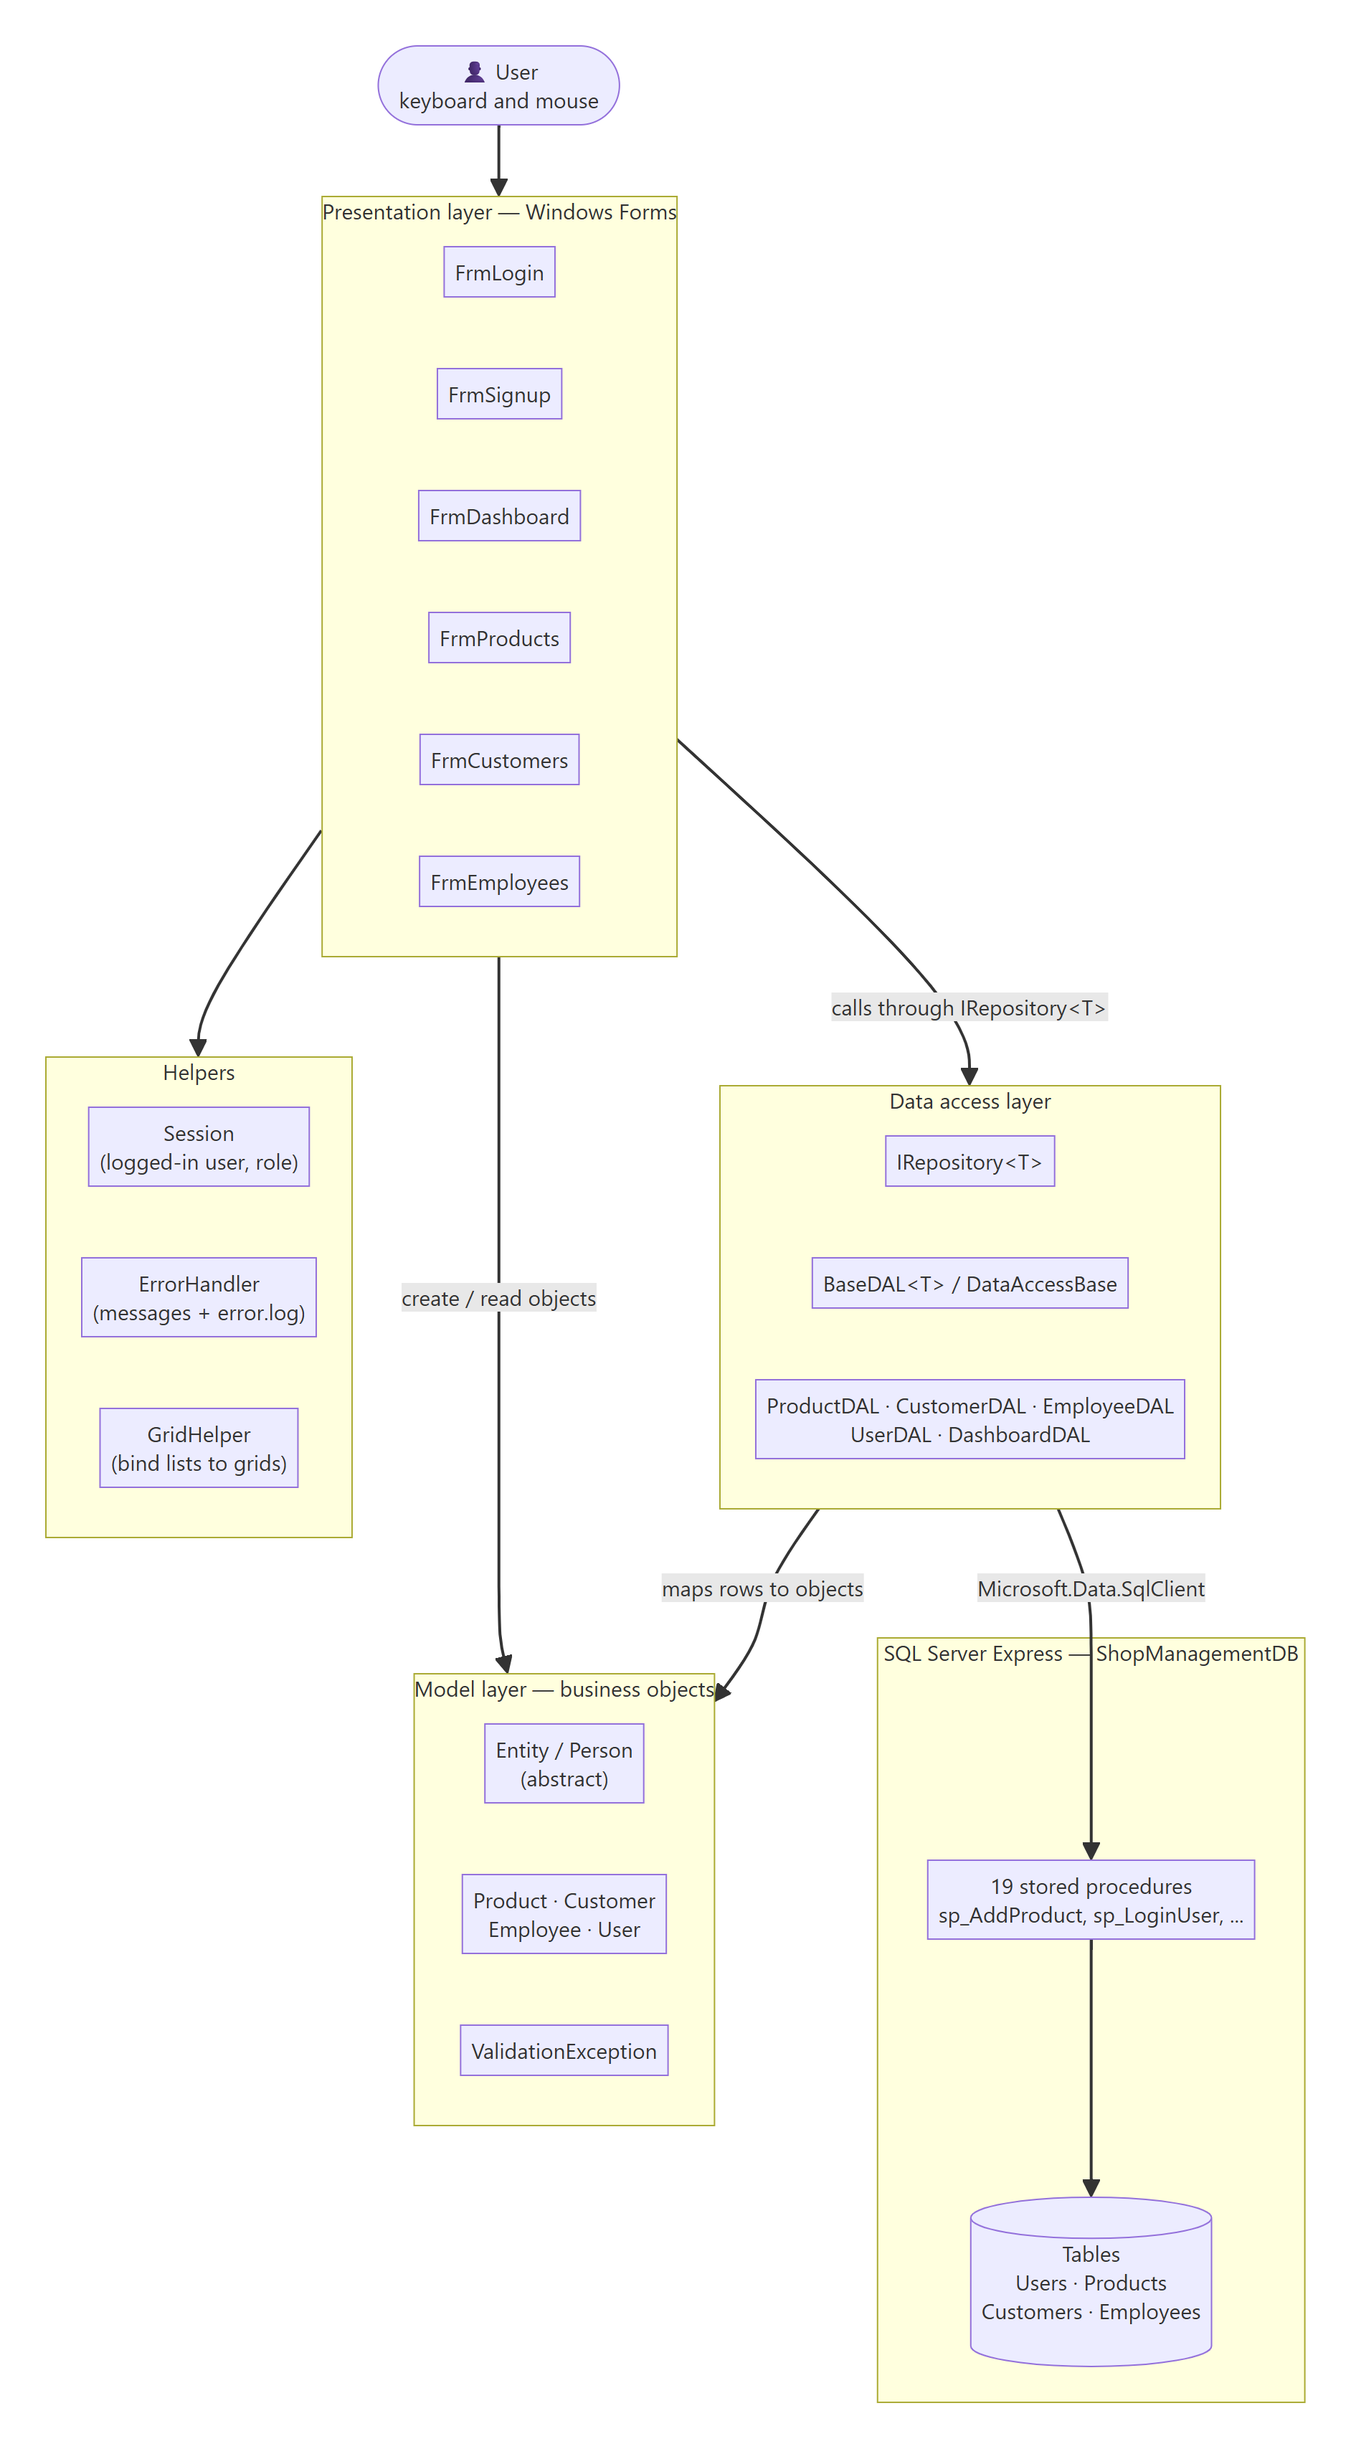
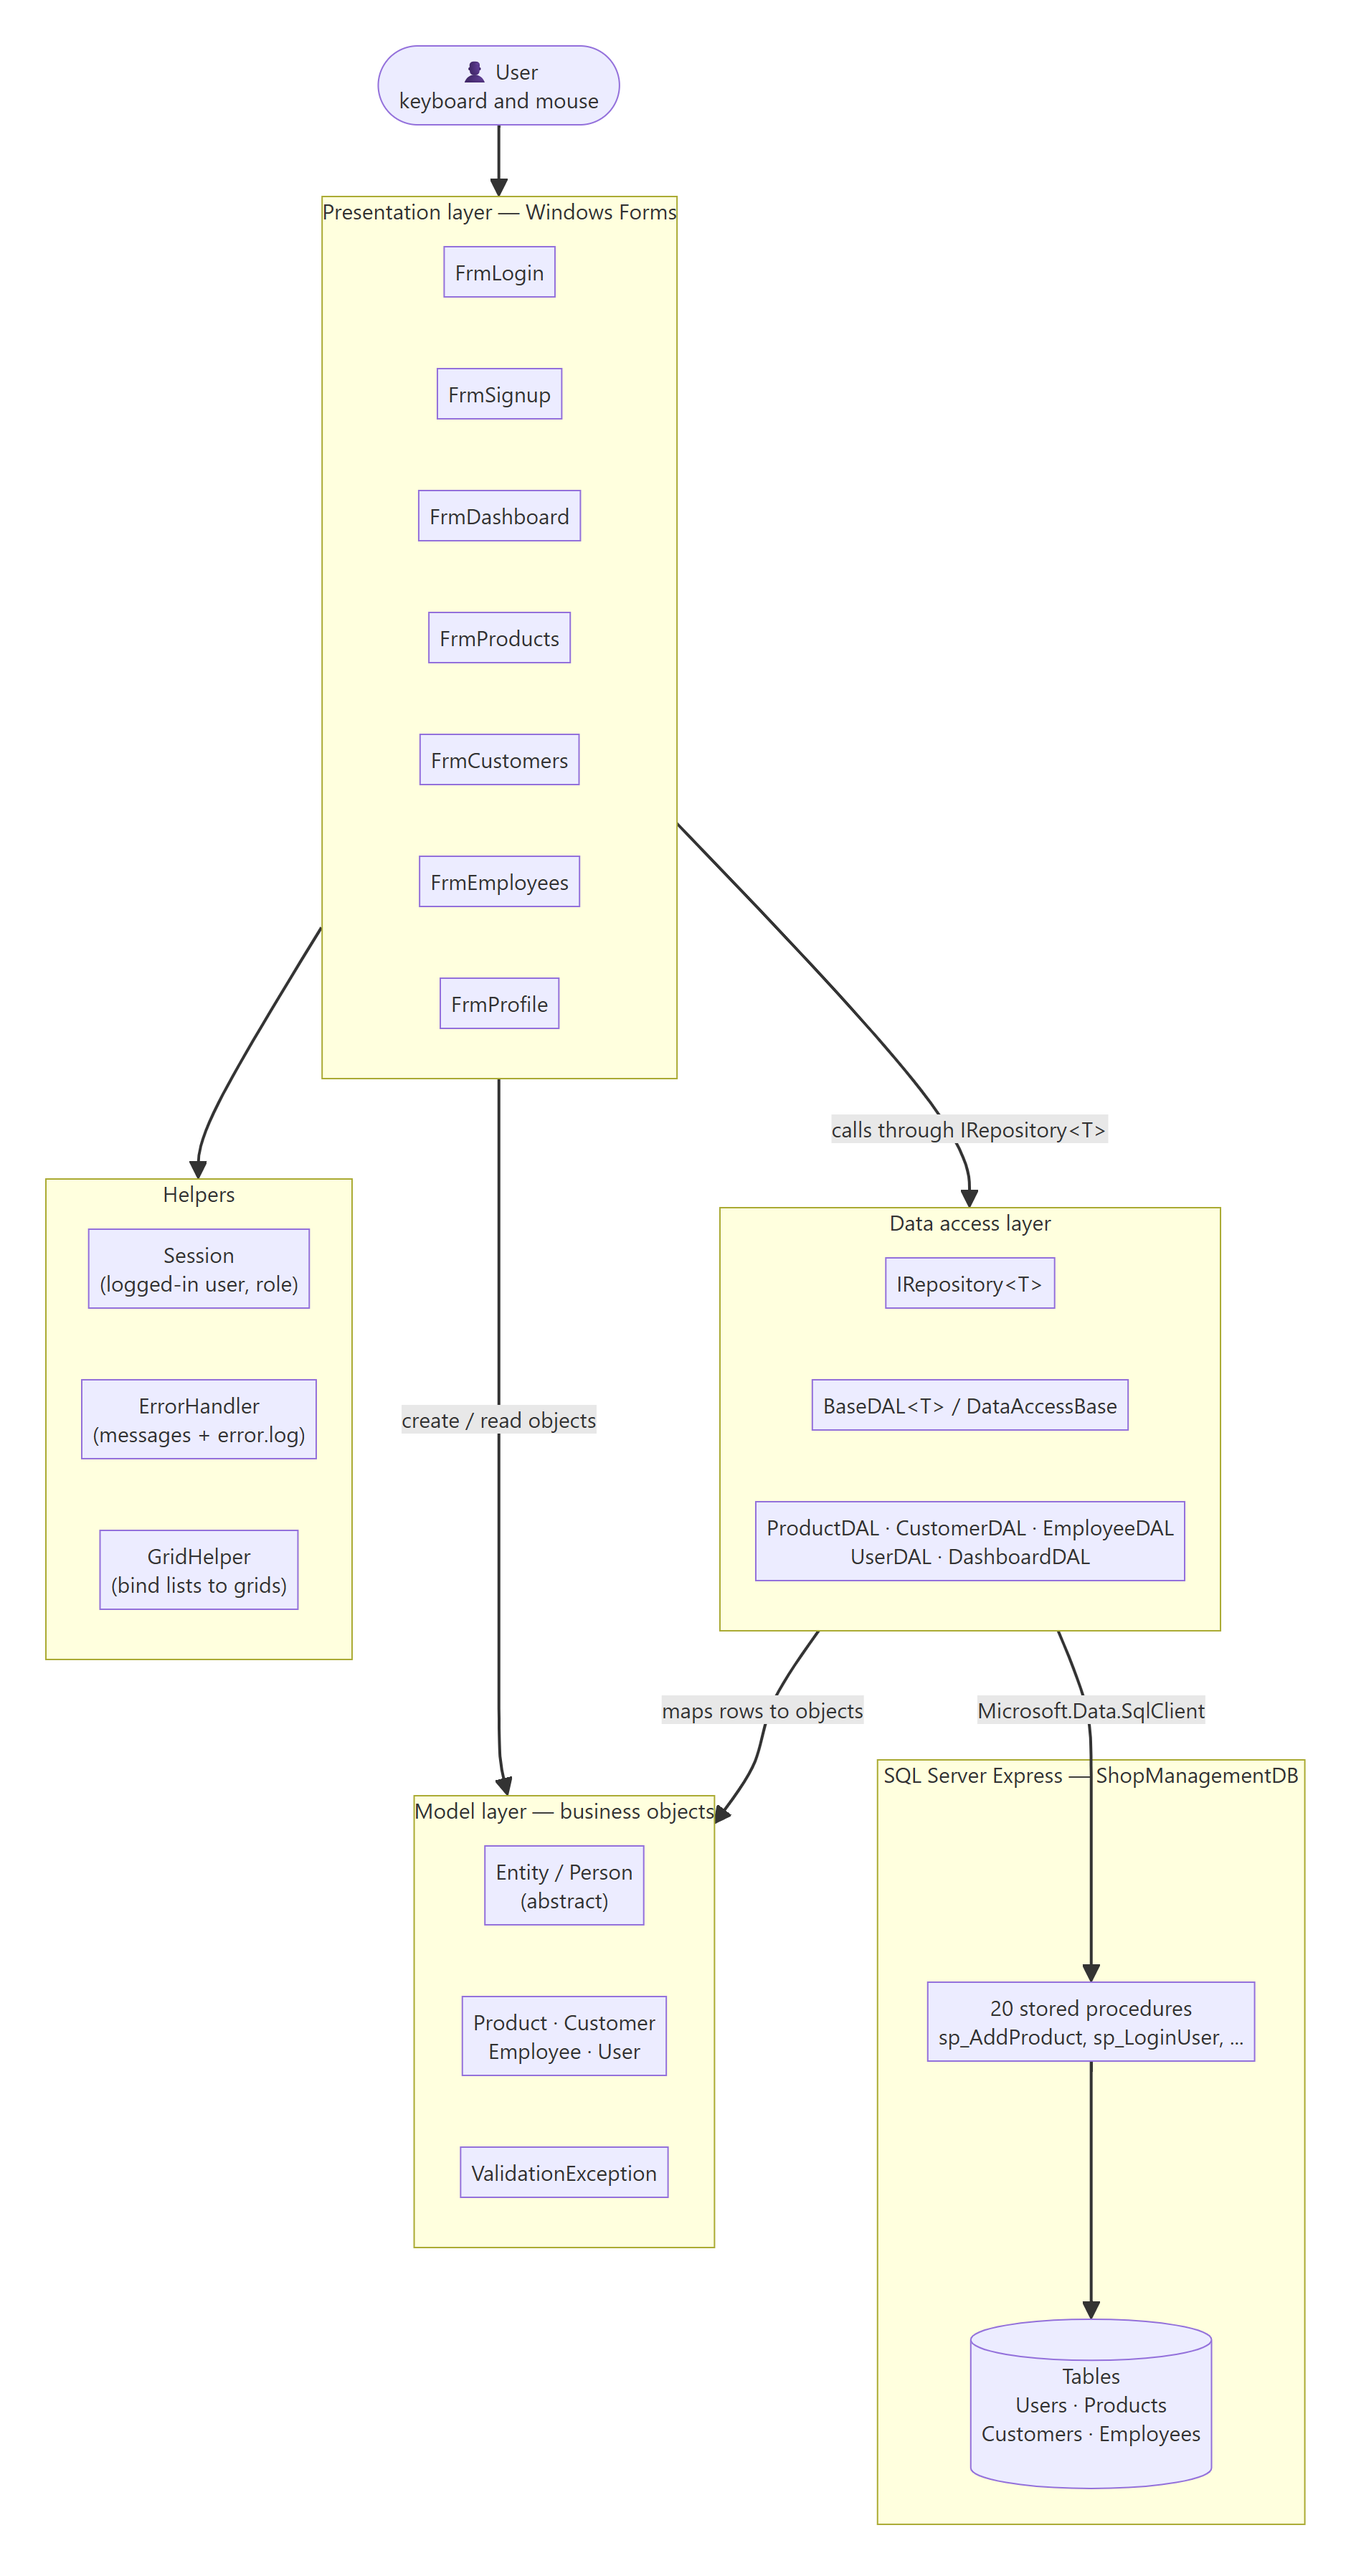
Add clickable profile on the dashboard
- Welcome text is now a link (hand cursor, underline on hover, tooltip)
  that opens a 'My Profile' window
- Profile details are loaded from the database via new stored procedure
  sp_GetUserProfile (UserDAL.GetProfile); User gains CreatedAt
- FrmProfile is built in code: initials avatar, username, role,
  member-since date and employee-access rights
- Database errors while loading the profile are handled like other screens
- Update diagrams (20 stored procedures, FrmProfile, new members) and add
  a profile screenshot

diff --git a/ShopManagementSystem/Forms/FrmProfile.cs b/ShopManagementSystem/Forms/FrmProfile.cs
@@ -1,0 +1,147 @@
+using ShopManagementSystem.Helpers;
+using ShopManagementSystem.Models;
+using System;
+using System.Drawing;
+using System.Drawing.Drawing2D;
+using System.Windows.Forms;
+
+namespace warehouse.NewFolder.Forms
+{
+    // Read-only profile card for the logged-in user. Built in code (no designer file).
+    public class FrmProfile : Form
+    {
+        private static readonly Color HeaderColor = Color.FromArgb(30, 64, 175);
+        private readonly User user;
+
+        public FrmProfile(User user)
+        {
+            this.user = user;
+
+            Text = "My Profile";
+            FormBorderStyle = FormBorderStyle.FixedDialog;
+            MaximizeBox = false;
+            MinimizeBox = false;
+            ShowInTaskbar = false;
+            StartPosition = FormStartPosition.CenterParent;
+            ClientSize = new Size(380, 340);
+            BackColor = Color.White;
+            Font = new Font("Segoe UI", 10F);
+
+            // The Fill control must be added first so the header and footer dock around it.
+            Controls.Add(BuildDetails());
+            Controls.Add(BuildHeader());
+            Controls.Add(BuildFooter());
+
+            UiTheme.Apply(this);
+        }
+
+        private Panel BuildHeader()
+        {
+            Panel header = new Panel { Dock = DockStyle.Top, Height = 120, BackColor = HeaderColor };
+
+            Panel avatar = new Panel { Size = new Size(64, 64), Location = new Point(24, 28), BackColor = HeaderColor };
+            avatar.Paint += PaintAvatar;
+
+            Label name = new Label
+            {
+                Text = user.Name,
+                ForeColor = Color.White,
+                Font = new Font("Segoe UI", 14F, FontStyle.Bold),
+                AutoSize = true,
+                Location = new Point(104, 36)
+            };
+            Label role = new Label
+            {
+                Text = user.Role,
+                ForeColor = Color.FromArgb(191, 219, 254),
+                Font = new Font("Segoe UI", 10F),
+                AutoSize = true,
+                Location = new Point(106, 68)
+            };
+
+            header.Controls.Add(avatar);
+            header.Controls.Add(name);
+            header.Controls.Add(role);
+            return header;
+        }
+
+        // White circle with the user's initials.
+        private void PaintAvatar(object? sender, PaintEventArgs e)
+        {
+            e.Graphics.SmoothingMode = SmoothingMode.AntiAlias;
+            e.Graphics.TextRenderingHint = System.Drawing.Text.TextRenderingHint.AntiAlias;
+            Rectangle circle = new Rectangle(0, 0, 63, 63);
+            e.Graphics.FillEllipse(Brushes.White, circle);
+
+            using Font font = new Font("Segoe UI", 20F, FontStyle.Bold);
+            using Brush brush = new SolidBrush(HeaderColor);
+            using StringFormat centre = new StringFormat { Alignment = StringAlignment.Center, LineAlignment = StringAlignment.Center };
+            e.Graphics.DrawString(GetInitials(user.Name), font, brush, circle, centre);
+        }
+
+        private static string GetInitials(string name)
+        {
+            string[] parts = name.Split(' ', StringSplitOptions.RemoveEmptyEntries);
+            if (parts.Length == 0)
+                return "?";
+            if (parts.Length == 1)
+                return parts[0].Substring(0, 1).ToUpperInvariant();
+            return (parts[0].Substring(0, 1) + parts[^1].Substring(0, 1)).ToUpperInvariant();
+        }
+
+        private TableLayoutPanel BuildDetails()
+        {
+            TableLayoutPanel table = new TableLayoutPanel
+            {
+                Dock = DockStyle.Fill,
+                ColumnCount = 2,
+                Padding = new Padding(24, 16, 24, 0)
+            };
+            table.ColumnStyles.Add(new ColumnStyle(SizeType.Absolute, 150));
+            table.ColumnStyles.Add(new ColumnStyle(SizeType.Percent, 100));
+
+            AddRow(table, "Username", user.Username);
+            AddRow(table, "Role", user.Role);
+            AddRow(table, "Member since", user.CreatedAt?.ToString("d MMMM yyyy") ?? "Unknown");
+            AddRow(table, "Employee access", Session.CanManageEmployees ? "Yes" : "No (Admin or Manager only)");
+            return table;
+        }
+
+        private static void AddRow(TableLayoutPanel table, string caption, string value)
+        {
+            table.Controls.Add(new Label
+            {
+                Text = caption,
+                ForeColor = Color.DimGray,
+                AutoSize = true,
+                Margin = new Padding(0, 6, 0, 6)
+            });
+            table.Controls.Add(new Label
+            {
+                Text = value,
+                Font = new Font("Segoe UI", 10F, FontStyle.Bold),
+                AutoSize = true,
+                Margin = new Padding(0, 6, 0, 6)
+            });
+        }
+
+        private Panel BuildFooter()
+        {
+            // Width must be set before the right-anchored button is positioned inside it.
+            Panel footer = new Panel { Dock = DockStyle.Bottom, Height = 64, Width = ClientSize.Width };
+            Button close = new Button
+            {
+                Text = "CLOSE",
+                Size = new Size(110, 36),
+                Location = new Point(ClientSize.Width - 110 - 24, 12),
+                Anchor = AnchorStyles.Top | AnchorStyles.Right,
+                Font = new Font("Segoe UI", 10F, FontStyle.Bold)
+            };
+            close.Click += (sender, e) => Close();
+            CancelButton = close;
+            AcceptButton = close;
+            footer.Controls.Add(close);
+            return footer;
+        }
+    }
+}

diff --git a/ShopManagementSystem/Forms/FrmDashboard.cs b/ShopManagementSystem/Forms/FrmDashboard.cs
@@ -16,18 +16,70 @@ namespace warehouse.NewFolder.Forms
     {
         private readonly DashboardDAL dashboardDAL = new DashboardDAL();
         private readonly ProductDAL productDAL = new ProductDAL();
+        private readonly UserDAL userDAL = new UserDAL();
+        private readonly ToolTip toolTip = new ToolTip();
 
         public FrmDashboard()
         {
             InitializeComponent();
             UiTheme.Apply(this);
+            SetUpProfileLink();
         }
 
         private void FrmDashboard_Load(object sender, EventArgs e)
         {
             User? user = Session.CurrentUser;
-            lblWelcome.Text = user == null ? "Welcome" : $"Welcome, {user.Name} ({user.Role})";
+            lblWelcome.Text = user == null ? "Welcome" : $"Welcome, {user.Name} ({user.Role})  ▾";
             LoadStats();
+        }
+
+        // The welcome text acts as a link that opens the profile window.
+        private void SetUpProfileLink()
+        {
+            Font normal = lblWelcome.Font;
+            Font underlined = new Font(normal, normal.Style | FontStyle.Underline);
+
+            lblWelcome.Cursor = Cursors.Hand;
+            toolTip.SetToolTip(lblWelcome, "View profile");
+            lblWelcome.MouseEnter += (sender, e) => lblWelcome.Font = underlined;
+            lblWelcome.MouseLeave += (sender, e) => lblWelcome.Font = normal;
+            lblWelcome.Click += (sender, e) => ShowProfile();
+        }
+
+        private void ShowProfile()
+        {
+            if (Session.CurrentUser == null)
+                return;
+
+            try
+            {
+                Cursor = Cursors.WaitCursor;
+                User? profile = userDAL.GetProfile(Session.CurrentUser.Id);
+                Cursor = Cursors.Default;
+
+                if (profile == null)
+                {
+                    Dialogs.Warning("Your account could not be found. It may have been removed.", "Profile");
+                    return;
+                }
+
+                using (FrmProfile profileForm = new FrmProfile(profile))
+                {
+                    profileForm.ShowDialog(this);
+                }
+            }
+            catch (SqlException ex)
+            {
+                ErrorHandler.ShowDatabase(ex, "load your profile");
+            }
+            catch (Exception ex)
+            {
+                ErrorHandler.ShowUnexpected(ex, "load your profile");
+            }
+            finally
+            {
+                Cursor = Cursors.Default;
+            }
         }
 
         private void LoadStats()

diff --git a/ShopManagementSystem/DataAccess/UserDAL.cs b/ShopManagementSystem/DataAccess/UserDAL.cs
@@ -41,5 +41,23 @@ namespace ShopManagementSystem.DataAccess
                 Role = ReadString(row, "UserRole")
             };
         }
+
+        // Loads the latest account details for the profile window, or null if the user no longer exists.
+        public User? GetProfile(int userId)
+        {
+            DataTable result = ExecuteQuery("sp_GetUserProfile", cmd => cmd.Parameters.AddWithValue("@UserID", userId));
+            if (result.Rows.Count == 0)
+                return null;
+
+            DataRow row = result.Rows[0];
+            return new User
+            {
+                Id = Convert.ToInt32(row["UserID"]),
+                Name = ReadString(row, "FullName"),
+                Username = ReadString(row, "Username"),
+                Role = ReadString(row, "UserRole"),
+                CreatedAt = row["CreatedAt"] == DBNull.Value ? null : Convert.ToDateTime(row["CreatedAt"])
+            };
+        }
     }
 }

diff --git a/ShopManagementSystem/Models/User.cs b/ShopManagementSystem/Models/User.cs
@@ -1,4 +1,5 @@
-using ShopManagementSystem.Exceptions;
+using System;
+using ShopManagementSystem.Exceptions;
 
 namespace ShopManagementSystem.Models
 {
@@ -44,6 +45,9 @@ namespace ShopManagementSystem.Models
             get => _role;
             set => _role = ValidationRules.Required(value, "Role");
         }
+
+        // Set by the database when the account is created.
+        public DateTime? CreatedAt { get; set; }
 
         public override string GetRole()
         {
